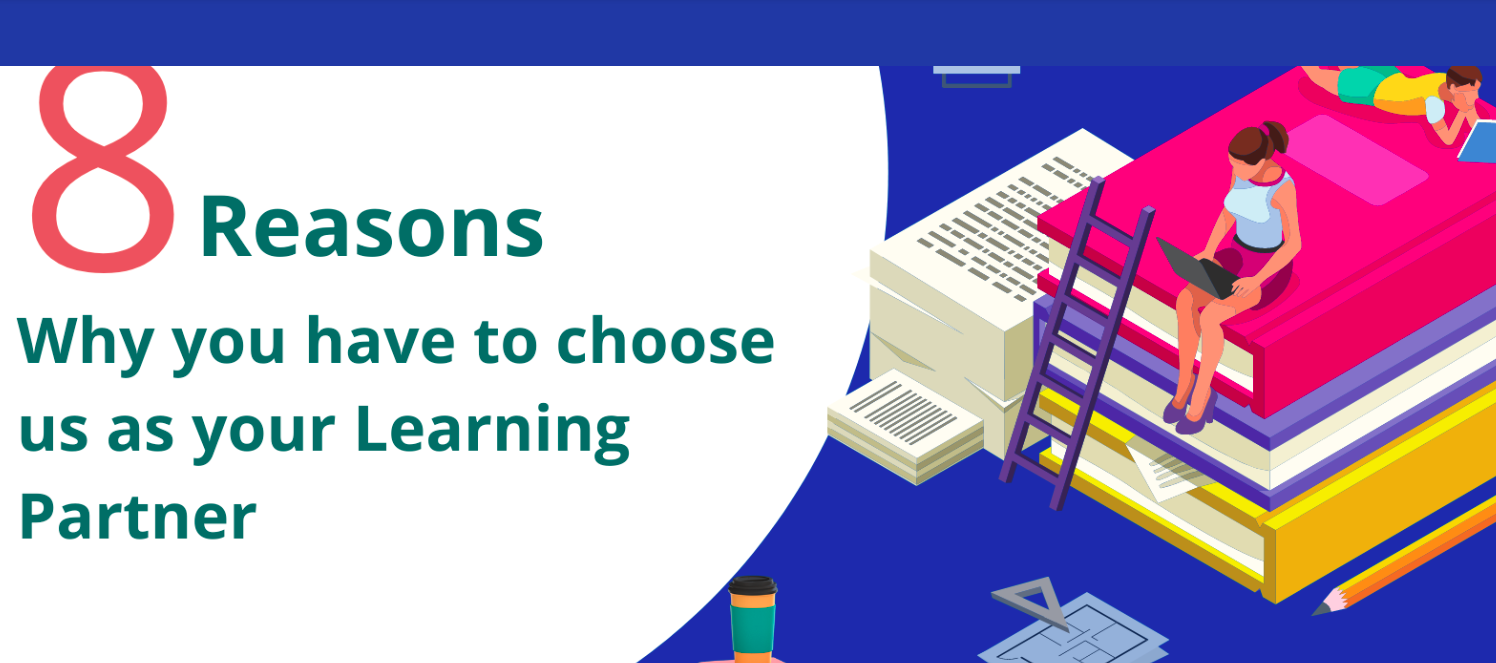
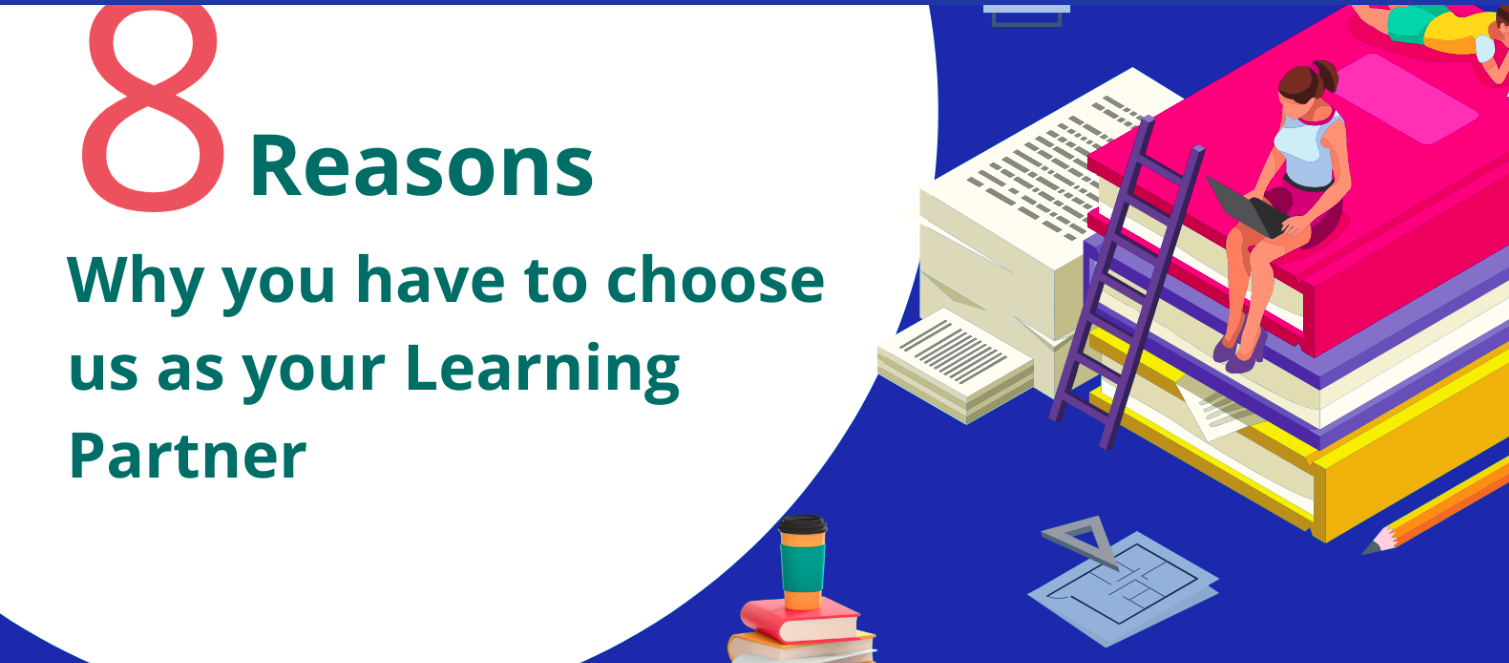
Modification done

diff --git a/src/App.css b/src/App.css
@@ -1,6 +1,6 @@
-/* .App {
-  text-align: center;
-} */
+App{
+  /* width: 100%; */
+}
 .Output{
   text-align: center;
 }
@@ -76,15 +76,20 @@ option{
 /* Change the background color of the dropdown button when the dropdown content is shown */
 .dropdown:hover .dropbtn {background-color: #3e8e41;}
 .image{
-  margin-top: -4%;
+  /* margin-top: -4%;
   background-image: url('./image/img1.png');
-  width:1400px; 
-  height:663px;
-  
+  width:1000px; 
+  height:663px; 
+  margin-left: 4%;
+   */
+   width: 100%;
 }
 .logo2{
+background-color: #2038a5;
+/* margin-right: 1%; */
+}
+.logoimg{
   margin-left: 80%;
-
 }
 .logofi{
   width: 12%;
@@ -94,4 +99,10 @@ option{
 .Output{
   text-align: center;
   font-size: x-large;
+}
+.ImagePage{
+  margin-top: -2%;
+}
+.mainimg{
+  width: 100%;
 }

diff --git a/src/Image.js b/src/Image.js
@@ -1,15 +1,15 @@
 import React from 'react'
-import img1 from './image/Screenshot from 2022-06-20 18-14-24 (1) (4).png'
-import img2 from './image/Screenshot from 2022-06-20 18-14-24 (1) (5).png'
+import img1 from './image/image1.png'
+import img2 from './image/logo.png'
 export default function Image() {
   return (
-    <div className='image'>
+    <div className='ImagePage'>
     <div className='logo2'>
-     <a href="//"><img  src={img1} alt="" /></a>
-     <a href="//"><img  src={img2} alt="" /></a>
+      <a href=""><img className='logoimg' src={img2} alt="" /></a>
     </div>
-    
+    <div className='image'>
+      <img className='mainimg' src={img1} alt="" />
   </div>
-   
+   </div>
   )
 }
